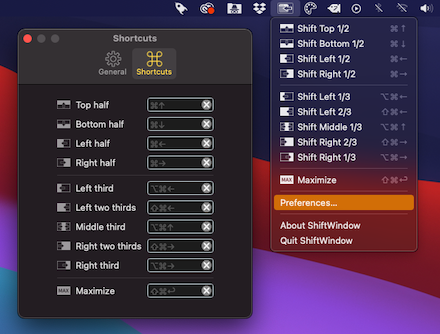
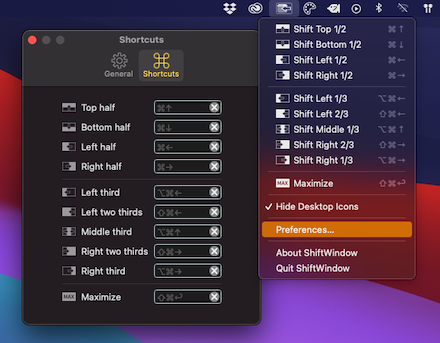
デスクトップのアイコンを隠す機能をつけた

diff --git a/ShiftWindow/Model/AppDelegate.swift b/ShiftWindow/Model/AppDelegate.swift
@@ -45,6 +45,7 @@ class AppDelegate: NSObject, NSApplicationDelegate {
     
     func applicationWillTerminate(_ notification: Notification) {
         DataManager.shared.patterns = self.patterns
+        self.toggleIconsVisible(flag: false)
     }
     
     @IBAction func openPreferences(_ sender: Any?) {
@@ -66,6 +67,23 @@ class AppDelegate: NSObject, NSApplicationDelegate {
     
     @IBAction func shiftWindow(_ sender: ShiftMenuItem) {
         self.shiftManager.shiftWindow(type: sender.pattern.type)
+    }
+    
+    @IBAction func hideDesktopIcons(_ sender: NSMenuItem) {
+        let flag = !sender.state.isOn
+        self.toggleIconsVisible(flag: flag)
+        sender.state = flag.state
+    }
+    
+    private func toggleIconsVisible(flag: Bool) {
+        let args = flag
+            ? "defaults write com.apple.finder CreateDesktop -bool FALSE; killall Finder"
+            : "defaults delete com.apple.finder CreateDesktop; killall Finder"
+        let shell = Process()
+        shell.launchPath = "/bin/sh"
+        shell.arguments = ["-c", args]
+        shell.launch()
+        shell.waitUntilExit()
     }
     
     private func showShortcutPanel(keyEquivalent: String) {

diff --git a/ShiftWindow/Model/MenuManager.swift b/ShiftWindow/Model/MenuManager.swift
@@ -53,13 +53,20 @@ class MenuManager {
             }
         }
         
+        // Add Hide Desktop Icons
+        let toggleItem = NSMenuItem(
+            title: "hideDesktopIcons".localized,
+            action: #selector(AppDelegate.hideDesktopIcons(_:))
+        )
+        self.menu.addItem(toggleItem)
+        self.menu.addItem(NSMenuItem.separator())
+        
         // Add General Items
         let preferencesItem = NSMenuItem(
             title: "preferences".localized,
             action: #selector(AppDelegate.openPreferences(_:))
         )
         self.menu.addItem(preferencesItem)
-        
         self.menu.addItem(NSMenuItem.separator())
         
         let aboutItem = NSMenuItem(
